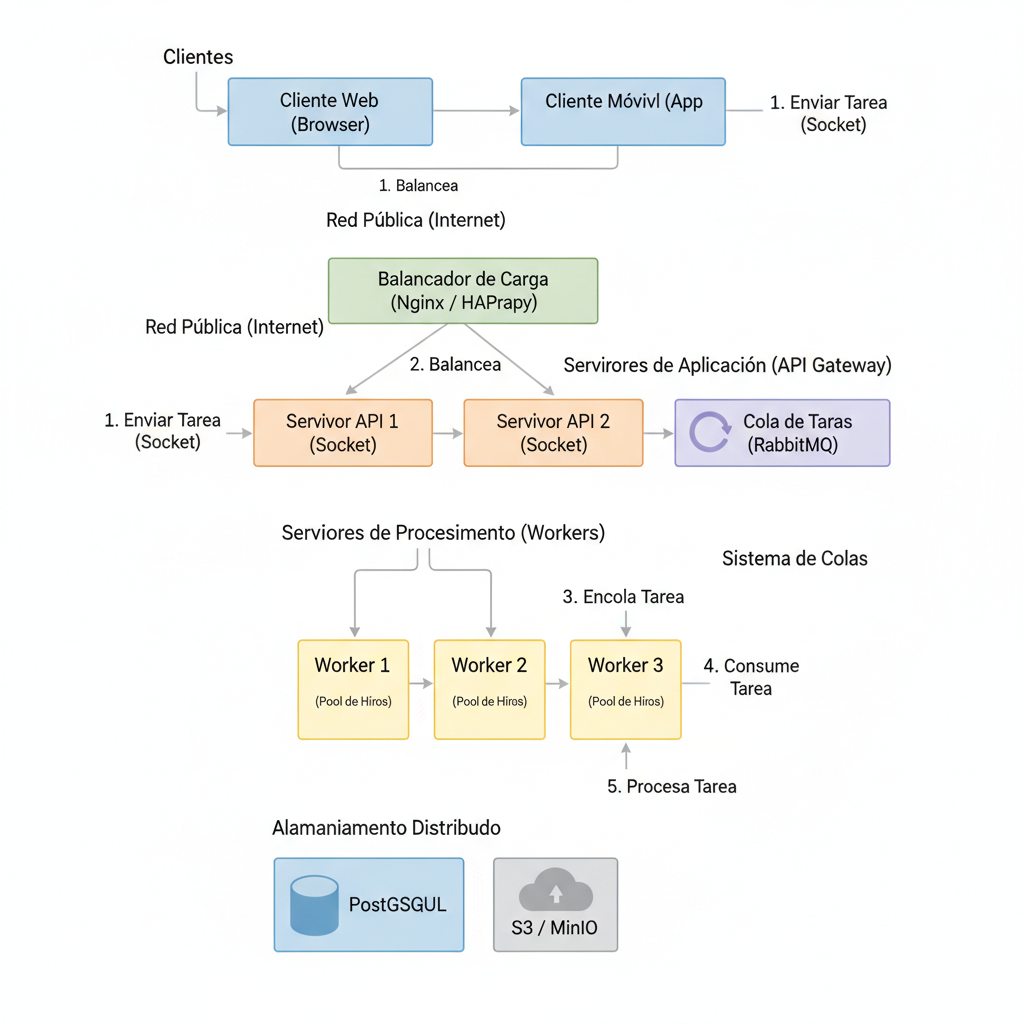
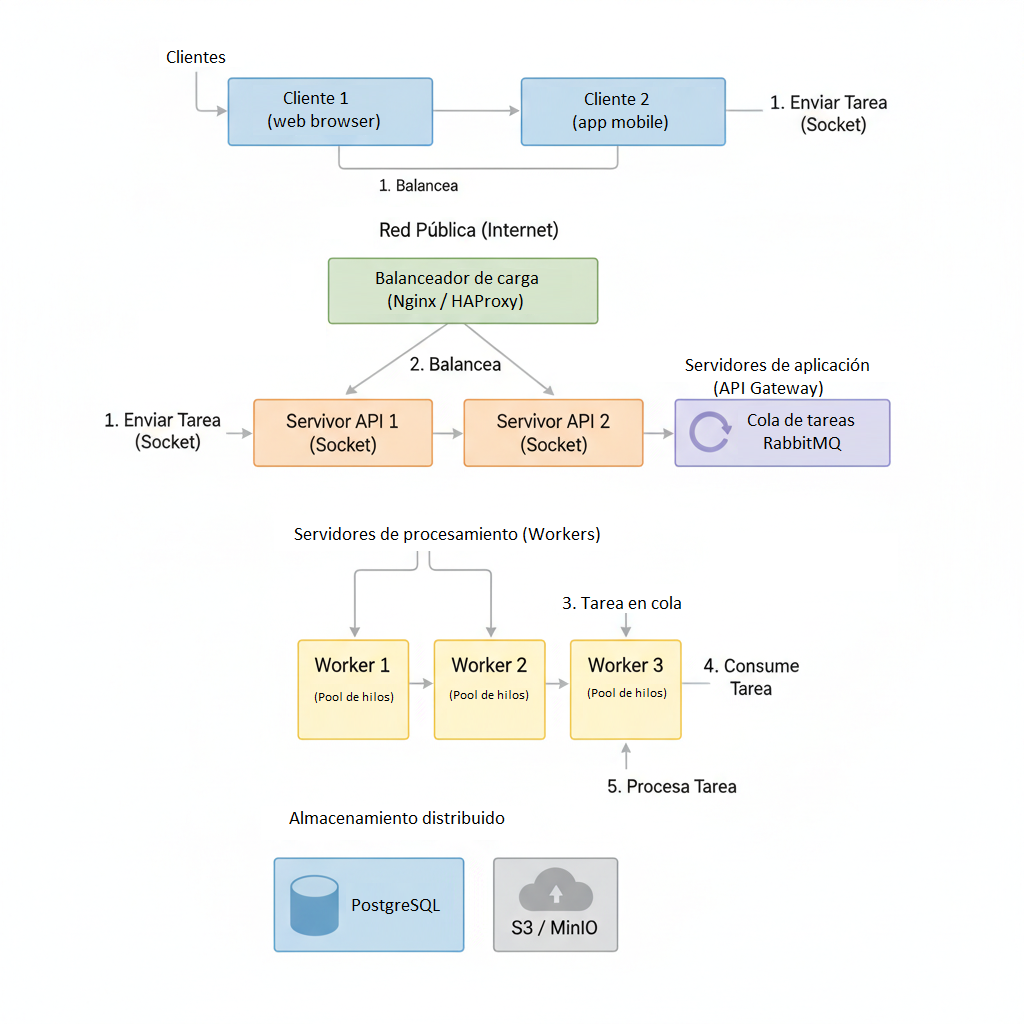
Completo README

diff --git a/README.MD b/README.MD
@@ -32,6 +32,7 @@ Este proyecto corresponde a la Práctica Formativa Obligatoria 3, donde el objet
 ---
 
 
+## Arquitectura distribuida Cliente–Servidor con balanceo de carga y procesamiento asíncrono
 ## 1. Diagrama de la Arquitectura
 
 Se diseñó un diagrama de arquitectura distribuida que incluye los siguientes componentes, según lo solicitado en la consigna:
@@ -44,7 +45,25 @@ Se diseñó un diagrama de arquitectura distribuida que incluye los siguientes c
 
 ![Diagrama de Arquitectura Distribuida](./capturas/01-esquema.png)
 
+
+### Descripción general
+El sistema se diseñó bajo una **arquitectura distribuida orientada a tareas**, donde múltiples clientes (web y móvil) envían solicitudes mediante **sockets**.  
+Un **balanceador de carga** (Nginx o HAProxy) distribuye las conexiones entre varios **servidores de aplicación (API Gateway)**, que a su vez colocan las tareas en una **cola de mensajes (RabbitMQ)** para su procesamiento asíncrono.
+
+Las tareas en cola son consumidas por un conjunto de **servidores de procesamiento (workers)**, cada uno con su propio **pool de hilos** para ejecutar múltiples trabajos en paralelo.  
+Los resultados se almacenan en un **sistema de almacenamiento distribuido**, compuesto por una base de datos relacional (**PostgreSQL**) y un sistema de archivos en la nube (**S3 / MinIO**).
+
 ---
+
+### Flujo de ejecución
+1. El cliente envía una tarea mediante un socket.  
+2. El balanceador distribuye la solicitud entre los servidores API.  
+3. El servidor coloca la tarea en la cola de RabbitMQ.  
+4. Los workers consumen las tareas y las procesan.  
+5. Los resultados se guardan en PostgreSQL o en S3/MinIO.
+
+---
+
 
 ## 2. Implementación en Python (Sockets)
 
